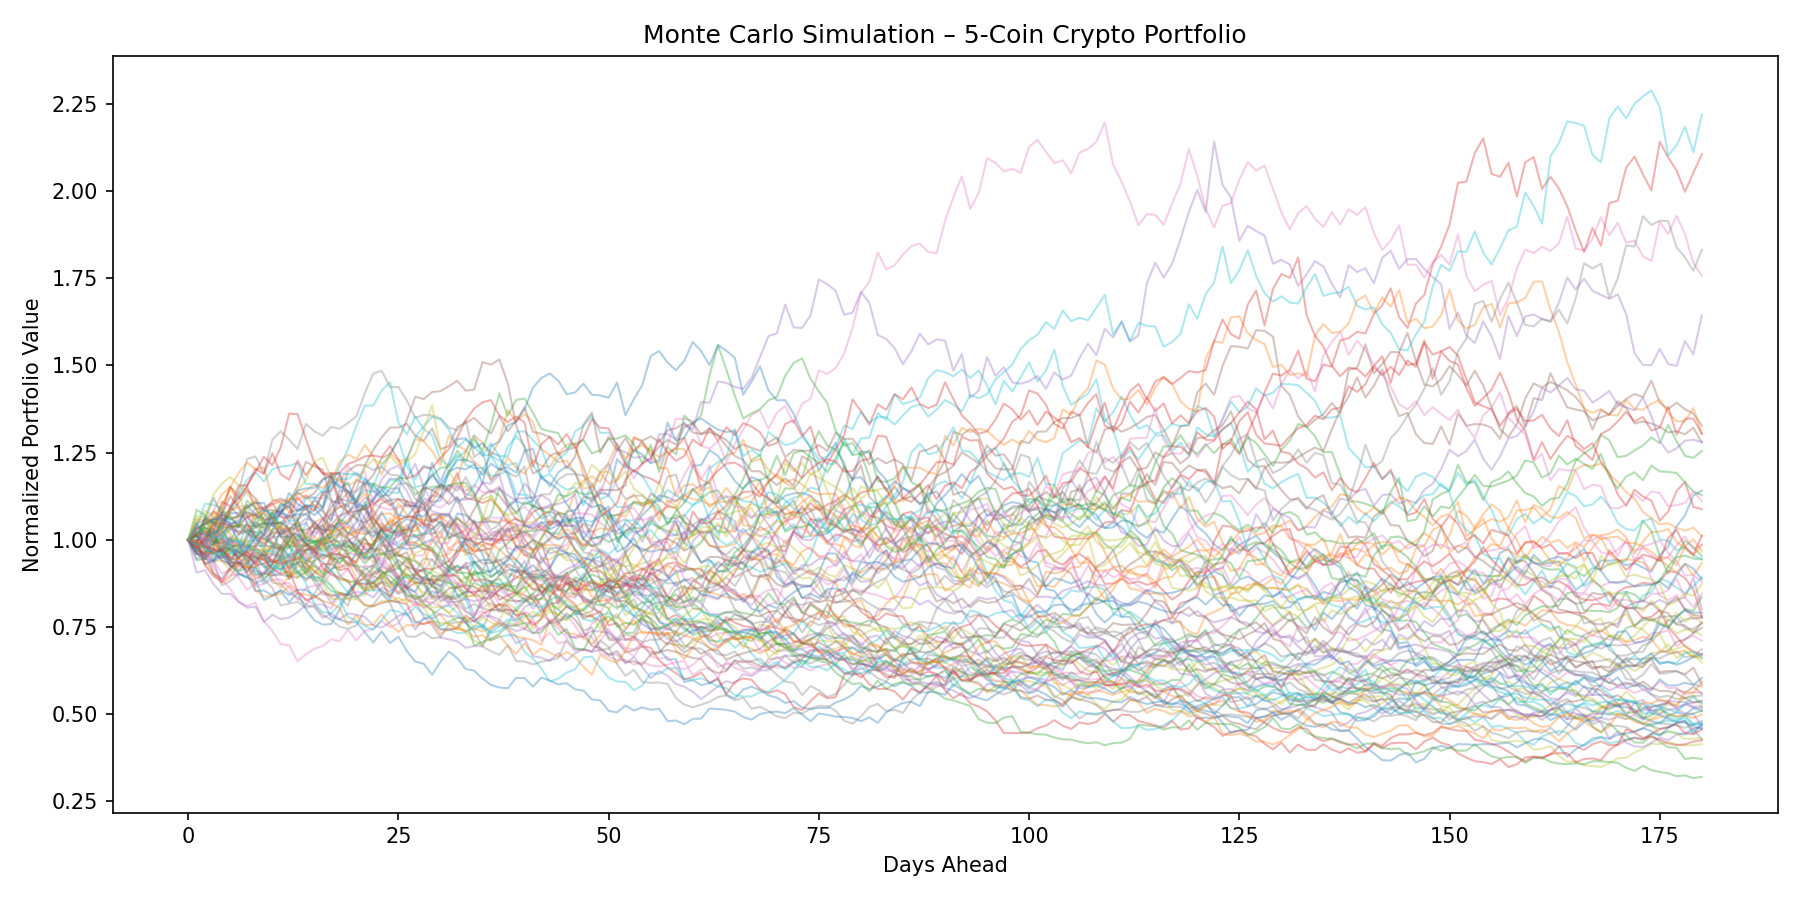
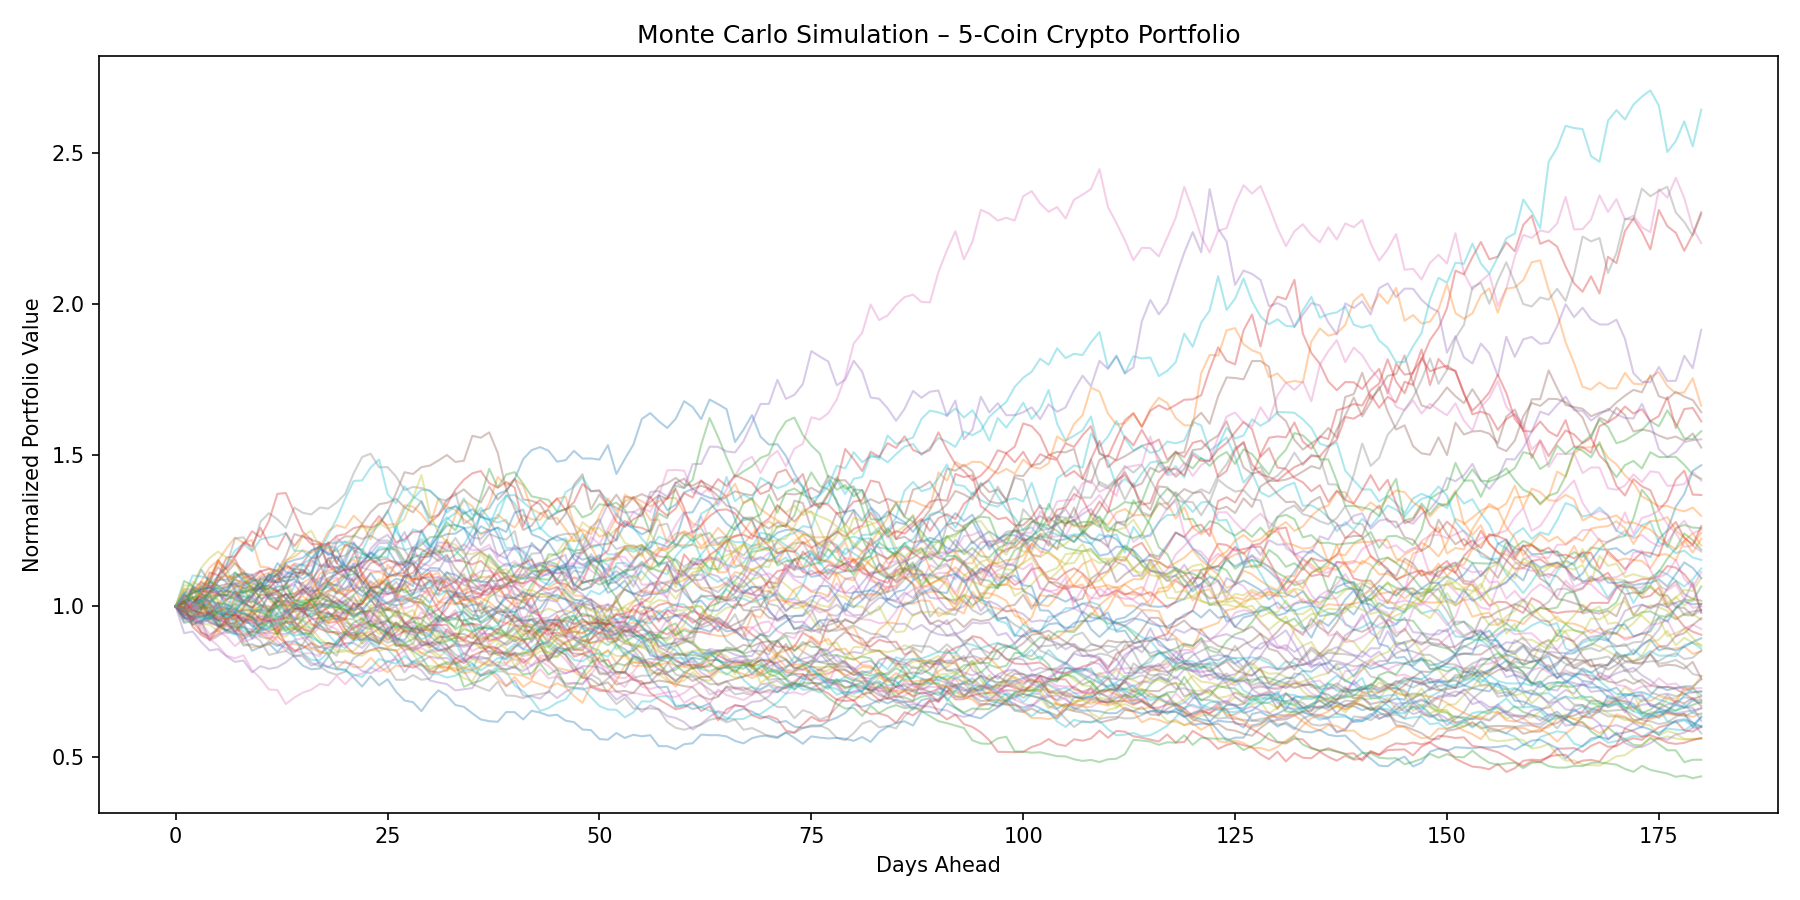
Updating results from crypto MC model so repo has more accurate results.

diff --git a/case-studies/monte-carlo-models/crypto-market-prediction/results/summary.md b/case-studies/monte-carlo-models/crypto-market-prediction/results/summary.md
@@ -9,12 +9,12 @@
 
 ## Simulation Results
 - Starting portfolio value: 1.0000
-- 10th percentile terminal value: 0.4198
-- Median terminal value: 0.7173
-- 90th percentile terminal value: 1.2323
-- Expected return: -21.35%
-- Probability of loss: 78.64%
-- Annualized portfolio volatility: 58.73%
+- 10th percentile terminal value: 0.5603
+- Median terminal value: 0.9197
+- 90th percentile terminal value: 1.5238
+- Expected return: -0.17%
+- Probability of loss: 58.14%
+- Annualized portfolio volatility: 56.41%
 
 ## Notes
 - This is a stochastic simulation baseline, not a deterministic prediction engine.
